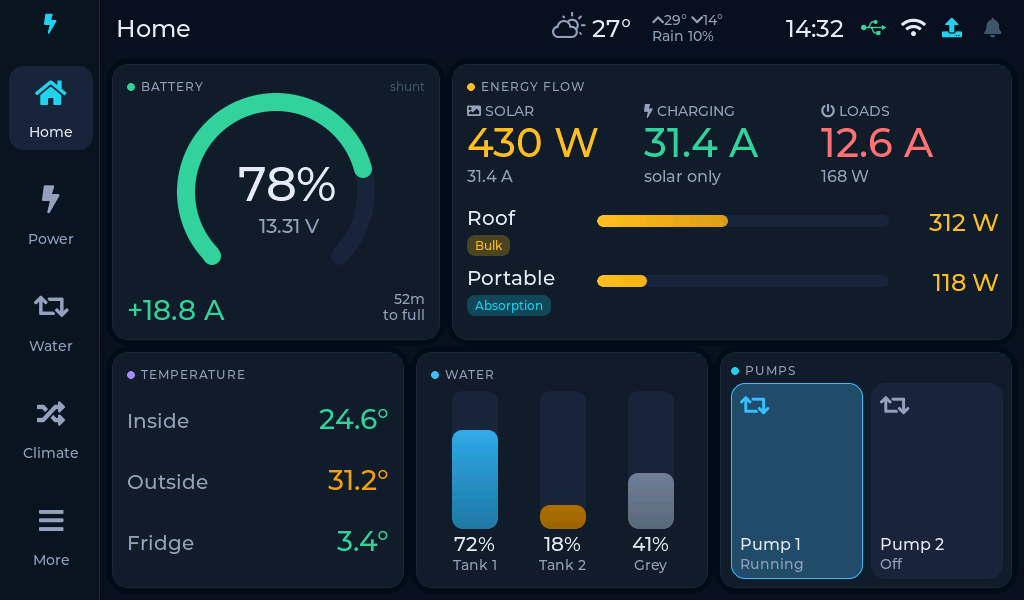
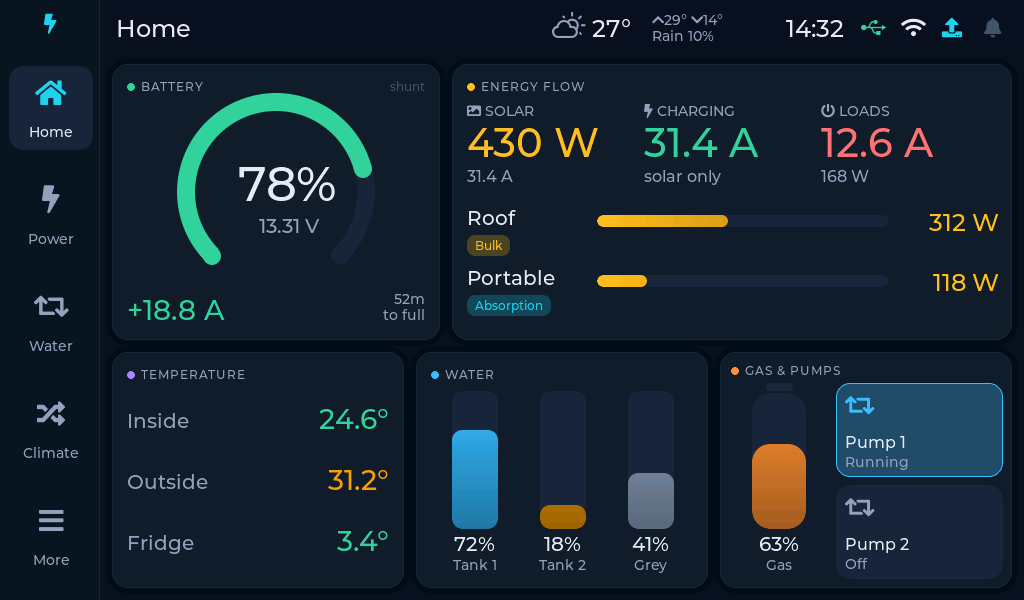
Add gas bottle gauge (BMPRO SmartSense) to Home; stack Pump 1/Pump 2
Home's third card becomes Gas & pumps: an LPG bottle gauge on the left and
the two pump tiles stacked at half height on the right. New cv::Gas in the
state (link key "gas"), a "gas" alert metric, demo/sim data at 63%, and the
same layout on the web dashboard. The hub's OdysseyLink decoder has a stub
for the SmartSense frame, so gas shows -- on real hardware until decoded.

Claude-Session: https://claude.ai/code/session_01PBSbX8v9d7dnHXswgJXYpi

Changed region(s): [[0.6875, 0.6, 1.0, 0.99]]

diff --git a/web/index.html b/web/index.html
@@ -17,7 +17,7 @@
 :root {
   --bg:#0b1220; --card:#131c2e; --tile:#1a2438; --border:#1e293b;
   --text:#e2e8f0; --muted:#94a3b8; --dim:#475569;
-  --solar:#fbbf24; --charge:#34d399; --load:#f87171; --water:#38bdf8;
+  --solar:#fbbf24; --charge:#34d399; --load:#f87171; --water:#38bdf8; --gas:#fb923c;
   --climate:#a78bfa; --accent:#22d3ee; --warn:#f59e0b; --alarm:#ef4444;
   --radius:16px;
 }
@@ -25,7 +25,7 @@
   :root:not([data-theme="dark"]) {
     --bg:#eef2f7; --card:#ffffff; --tile:#f1f5f9; --border:#dbe3ee;
     --text:#0f172a; --muted:#475569; --dim:#94a3b8;
-    --solar:#d97706; --charge:#059669; --load:#dc2626; --water:#0284c7;
+    --solar:#d97706; --charge:#059669; --load:#dc2626; --water:#0284c7; --gas:#ea580c;
     --climate:#7c3aed; --accent:#0891b2;
   }
 }
@@ -65,9 +65,12 @@ main { padding:12px 16px 40px; max-width:1200px; margin:0 auto; }
 .tanks { display:flex; gap:18px; justify-content:space-around; }
 .tank { text-align:center; }
 .tank .tb { width:44px; height:110px; border-radius:10px; background:var(--tile); position:relative; overflow:hidden; margin:0 auto 6px; }
+#gas .tb { border-radius:18px 18px 12px 12px; }
 .tank .tb i { position:absolute; left:0; right:0; bottom:0; background:var(--water); transition:height .6s; }
 .temps .t { display:flex; justify-content:space-between; align-items:baseline; padding:4px 0; }
 .ctrls { display:grid; grid-template-columns:1fr 1fr; gap:10px; }
+.gasrow { display:flex; gap:14px; align-items:stretch; } .gasrow .ctrls { flex:1; grid-template-columns:1fr; }
+.gasrow.wide .ctrls { grid-template-columns:1fr 1fr; }
 .tog { border:1px solid var(--border); background:var(--tile); color:var(--text); border-radius:14px;
   padding:12px; text-align:left; font:inherit; cursor:pointer; min-height:70px; }
 .tog b { display:block; font-weight:600; } .tog span { font-size:12px; color:var(--muted); }
@@ -161,9 +164,12 @@ pre { white-space:pre-wrap; font-size:12px; background:var(--tile); padding:10px
         <div class="cap">Water</div>
         <div id="tanks" class="tanks"></div>
       </div>
-      <div class="card span4">
-        <div class="cap">Controls</div>
-        <div class="ctrls" id="ctrls"></div>
+      <div class="card span4" style="--dot:var(--gas)">
+        <div class="cap" id="ctrlCap">Gas &amp; pumps</div>
+        <div class="gasrow" id="gasRow">
+          <div class="tank" id="gas"></div>
+          <div class="ctrls" id="ctrls"></div>
+        </div>
         <div class="row hidden" id="acRow" style="margin-top:10px">
           <select id="acSel" aria-label="Aircon preset"></select>
           <button class="btn" id="acGo">Send</button>
@@ -280,7 +286,7 @@ const METRICS = [
   ["load_a","Load current","A"],["charge_a","Charge current","A"],["solar_w","Solar total","W"],
   ["solar1_w","Solar 1","W"],["solar2_w","Solar 2","W"],["temp_in","Inside temp","°C"],
   ["temp_out","Outside temp","°C"],["temp_fridge","Fridge temp","°C"],["tank1","Tank 1","%"],
-  ["tank2","Tank 2","%"],["tank3","Tank 3","%"]];
+  ["tank2","Tank 2","%"],["tank3","Tank 3","%"],["gas","Gas bottle","%"]];
 const CS = {0:"Off",2:"Fault",3:"Bulk",4:"Absorption",5:"Float",7:"Equalise",245:"Starting",247:"Auto EQ",252:"Ext control"};
 const SEV = ["Info","Warning","Alarm"], SEVC = ["var(--accent)","var(--warn)","var(--alarm)"];
 
@@ -361,6 +367,13 @@ function render() {
     const c = !t.on ? "var(--dim)" : bad ? "var(--alarm)" : warn ? "var(--warn)" : i === 2 ? "var(--muted)" : "var(--water)";
     return `<div class="tank"><div class="tb"><i style="height:${t.on ? t.p : 0}%; background:${c}"></i></div>
       <b>${t.on ? Math.round(t.p) + "%" : "--"}</b><div class="muted small">${esc(META.tank[i])}</div></div>`; }).join("");
+
+  // Gas bottle (BMPRO SmartSense via the OdysseyLink)
+  const g = S.gas || { on:false, p:0 }, gc = !g.on ? "var(--dim)" : g.p < 10 ? "var(--alarm)" : g.p < 25 ? "var(--warn)" : "var(--gas)";
+  $("#gas").innerHTML = `<div class="tb"><i style="height:${g.on ? g.p : 0}%; background:${gc}"></i></div>
+    <b>${g.on ? Math.round(g.p) + "%" : "--"}</b><div class="muted small">Gas</div>`;
+  $("#gasRow").classList.toggle("wide", FEATURES.inverter || FEATURES.aircon);
+  $("#ctrlCap").textContent = FEATURES.inverter || FEATURES.aircon ? "Gas & controls" : "Gas & pumps";
 
   const rc = transport?.kind !== "cloud" || META.rc;
   const acName = S.ac.on && S.ac.pre >= 0 ? (META.acp[S.ac.pre] || "On") : "Off";
@@ -493,7 +506,7 @@ function demoTransport() {
   const st = { t:"state", ts: Math.floor(Date.now() / 1000), bat:{ on:true, src:1, v:13.31, a:18.8, soc:78, ttg:52, sa:31.4, ca:0, chg:31.4, load:12.6 },
     sol:[{ on:true, pv:-1, w:312, bv:13.31, ba:22.6, cs:3, err:0, yt:1.42, mx:498 }, { on:true, pv:-1, w:118, bv:13.3, ba:8.8, cs:4, err:0, yt:0.61, mx:205 }],
     tmp:[{ on:true, c:24.6, lo:16.2, hi:27.9 }, { on:true, c:31.2, lo:14.8, hi:33.4 }, { on:true, c:7.4, lo:2.1, hi:7.4 }],
-    tank:[{ on:true, p:72 }, { on:true, p:18 }, { on:true, p:41 }],
+    tank:[{ on:true, p:72 }, { on:true, p:18 }, { on:true, p:41 }], gas:{ on:true, p:63 },
     pump:[{ on:true, sn:true, lk:false, rt:94 }, { on:false, sn:false, lk:false, rt:0 }],
     inv:{ on:false, ac:false }, ac:{ on:true, pre:0 },
     alerts:[{ id:7, sev:2, ack:false, since: Math.floor(Date.now() / 1000) - 1500, msg:"Fridge warm: 7.4°C (> 6.0)" }],

diff --git a/firmware/display/src/ui/ui_home.cpp b/firmware/display/src/ui/ui_home.cpp
@@ -1,6 +1,6 @@
 // HOME - everything important on one screen.
 //  [ Battery ring  ] [ Energy flow: solar / charger / loads + per-MPPT  ]
-//  [ Temperatures  ] [ Water tanks      ] [ Pump1 Pump2 Inverter Aircon ]
+//  [ Temperatures  ] [ Water tanks      ] [ Gas bottle | Pump 1 / Pump 2 ]
 #include "../app.h"
 #include "ui.h"
 
@@ -12,6 +12,7 @@ static lv_obj_t *mpName[cv::NUM_SOLAR], *mpChip[cv::NUM_SOLAR], *mpBar[cv::NUM_S
 static lv_obj_t *tName[cv::NUM_TEMPS], *tVal[cv::NUM_TEMPS];
 static lv_obj_t *tkBar[cv::NUM_TANKS], *tkPct[cv::NUM_TANKS], *tkName[cv::NUM_TANKS];
 static lv_obj_t *tilePump[cv::NUM_PUMPS], *tileInv, *tileAc;
+static lv_obj_t *gasBar, *gasPct;
 static uint32_t seenMeta = UINT32_MAX;
 
 static void pumpCb(lv_event_t *e) { togglePump((int)(intptr_t)lv_event_get_user_data(e)); }
@@ -134,15 +135,44 @@ void buildHome(lv_obj_t *p) {
     lv_obj_set_pos(tkName[i], x + 1, 24 + tankBarH + (LARGE ? 28 : 22));
   }
 
-  // ---------------- quick controls: 2 tiles per row (pumps, then inverter /
-  // aircon when those features are switched on, see ui.h)
-  constexpr int nTiles = cv::NUM_PUMPS + HAS_INVERTER + HAS_AIRCON, rows = (nTiles + 1) / 2;
-  lv_obj_t *q = card(p, colX(2, 3), BOT_Y, bw, BOT_H, nTiles > cv::NUM_PUMPS ? "CONTROLS" : "PUMPS", col::ACCENT);
+  // ---------------- gas bottle + quick controls. Gas gauge (BMPRO SmartSense)
+  // on the left; the pump tiles stacked at half height on the right (plus
+  // inverter / aircon in a second column when those features are on, ui.h).
+  constexpr int nTiles = cv::NUM_PUMPS + HAS_INVERTER + HAS_AIRCON;
+  constexpr int tCols = nTiles > cv::NUM_PUMPS ? 2 : 1, tRows = (nTiles + tCols - 1) / tCols;
+  lv_obj_t *q = card(p, colX(2, 3), BOT_Y, bw, BOT_H, nTiles > cv::NUM_PUMPS ? "GAS & CONTROLS" : "GAS & PUMPS",
+                     col::GAS);
   lv_obj_set_style_pad_all(q, 10, 0);
-  constexpr int tg = 8, tw = (bw - 20 - tg) / 2, th = (BOT_H - 20 - 20 - (rows - 1) * tg) / rows;
+  constexpr int qw = bw - 20, qh = BOT_H - 20, tg = 8;
+  constexpr int gasW = (tCols == 1 ? qw * 36 / 100 : qw * 28 / 100);
+  constexpr int gasBarW = LARGE ? 54 : 44, gasBarH = qh - 20 - (LARGE ? 50 : 42);  // % and name below
+  // The bottle: a bar with a little valve collar on top.
+  lv_obj_t *collar = lv_obj_create(q);
+  lv_obj_remove_style_all(collar);
+  lv_obj_set_size(collar, gasBarW / 2, 8);
+  lv_obj_set_style_bg_opa(collar, LV_OPA_COVER, 0);
+  lv_obj_set_style_bg_color(collar, c(col::BORDER), 0);
+  lv_obj_set_style_radius(collar, 3, 0);
+  lv_obj_set_pos(collar, (gasW - gasBarW / 2) / 2, 20);
+  gasBar = vbar(q, gasBarW, gasBarH - 10, col::GAS);
+  lv_obj_set_style_radius(gasBar, gasBarW / 3, 0);
+  lv_obj_set_style_radius(gasBar, gasBarW / 3, LV_PART_INDICATOR);
+  lv_obj_set_pos(gasBar, (gasW - gasBarW) / 2, 30);
+  lv_obj_clear_flag(gasBar, LV_OBJ_FLAG_CLICKABLE);
+  gasPct = lbl(q, LARGE ? &lv_font_montserrat_20 : &lv_font_montserrat_16, col::TEXT, "--");
+  lv_obj_set_width(gasPct, gasW);
+  lv_obj_set_style_text_align(gasPct, LV_TEXT_ALIGN_CENTER, 0);
+  lv_obj_set_pos(gasPct, 0, 20 + gasBarH + 4);
+  lv_obj_t *gasName = lbl(q, LARGE ? &lv_font_montserrat_14 : &lv_font_montserrat_12, col::MUTED, "Gas");
+  lv_obj_set_width(gasName, gasW);
+  lv_obj_set_style_text_align(gasName, LV_TEXT_ALIGN_CENTER, 0);
+  lv_obj_set_pos(gasName, 0, 20 + gasBarH + (LARGE ? 28 : 22));
+
+  constexpr int tx0 = gasW + tg, tw = (qw - tx0 - (tCols - 1) * tg) / tCols;
+  constexpr int th = (qh - 20 - (tRows - 1) * tg) / tRows;
   int n = 0;
   auto place = [&](lv_obj_t *t) {
-    lv_obj_set_pos(t, (n % 2) * (tw + tg), 20 + (n / 2) * (th + tg));
+    lv_obj_set_pos(t, tx0 + (n / tRows) * (tw + tg), 20 + (n % tRows) * (th + tg));
     n++;
   };
   for (int i = 0; i < cv::NUM_PUMPS; i++) {
@@ -237,6 +267,18 @@ void updateHome() {
       lv_bar_set_value(tkBar[i], 0, LV_ANIM_OFF);
       setText(tkPct[i], "--");
     }
+  }
+
+  // gas bottle
+  if (s.gas.online) {
+    lv_bar_set_value(gasBar, (int)s.gas.pct, LV_ANIM_ON);
+    setBarColor(gasBar, gasColor(s.gas.pct));
+    setText(gasPct, "%d%%", (int)(s.gas.pct + 0.5f));
+    lv_obj_set_style_text_color(gasPct, c(col::TEXT), 0);
+  } else {
+    lv_bar_set_value(gasBar, 0, LV_ANIM_OFF);
+    setText(gasPct, "--");
+    lv_obj_set_style_text_color(gasPct, c(col::DIM), 0);
   }
 
   // controls

diff --git a/firmware/hub/src/Bmpro.cpp b/firmware/hub/src/Bmpro.cpp
@@ -32,7 +32,7 @@ volatile bool gDecodedAny = false;
 
 // Decoded data handed from the BLE task to loop(), with arrival times.
 BmproData gData;
-uint32_t gBatMs = 0, gChgMs = 0, gTankMs[cv::NUM_TANKS] = {}, gPumpMs[cv::NUM_PUMPS] = {};
+uint32_t gBatMs = 0, gChgMs = 0, gTankMs[cv::NUM_TANKS] = {}, gPumpMs[cv::NUM_PUMPS] = {}, gGasMs = 0;
 
 struct WriteReq {
   char uuid[40];
@@ -123,6 +123,11 @@ void applyDecoded(const BmproData &in) {
       gData.tankPct[i] = in.tankPct[i];
       gTankMs[i] = now;
     }
+  if (in.gasValid) {
+    gData.gasValid = true;
+    gData.gasPct = in.gasPct;
+    gGasMs = now;
+  }
   for (int i = 0; i < cv::NUM_PUMPS; i++)
     if (in.pumpValid[i]) {
       gData.pumpValid[i] = true;
@@ -259,6 +264,9 @@ void Bmpro::loop(cv::State &s, bool useBattery, bool useTanks, bool usePumps) {
       s.tank[i].online = gData.tankValid[i] && now - gTankMs[i] < STALE_MS;
       if (s.tank[i].online) s.tank[i].pct = gData.tankPct[i];
     }
+  // Gas bottle (SmartSense): goes online once decode() learns its frame.
+  s.gas.online = gData.gasValid && now - gGasMs < STALE_MS;
+  if (s.gas.online) s.gas.pct = gData.gasPct;
   if (usePumps)
     for (int i = 0; i < cv::NUM_PUMPS; i++) {
       bool fresh = gData.pumpValid[i] && now - gPumpMs[i] < STALE_MS;
@@ -328,6 +336,9 @@ String Bmpro::devices() const {
 //     out.pumpValid[0] = out.pumpValid[1] = true;
 //     out.pumpOn[0] = data[10] & 0x01;  out.pumpOn[1] = data[10] & 0x02;
 //     return true;
+//   }
+//   // SmartSense gas bottle level (relayed by the OdysseyLink), e.g.
+//   if (... SmartSense frame ...) { out.gasValid = true; out.gasPct = data[n]; return true;
 //   }
 //
 // encodePump(): the bytes the Odyssey app writes to switch a pump (from an

diff --git a/firmware/lib/CaravanCommon/src/CaravanModel.cpp b/firmware/lib/CaravanCommon/src/CaravanModel.cpp
@@ -22,6 +22,7 @@ static const MetricInfo kMetrics[M_COUNT] = {
     {"tank3", "Tank 3", "%", 5.0f},
     {"wx_gust", "Forecast gusts", "km/h", 5.0f},
     {"wx_rain", "Forecast rain chance", "%", 10.0f},
+    {"gas", "Gas bottle", "%", 5.0f},
 };
 
 const MetricInfo &metricInfo(Metric m) { return kMetrics[m < M_COUNT ? m : 0]; }
@@ -57,6 +58,7 @@ bool metricValue(const State &s, Metric m, float &out) {
     // Forecast metrics: only while the forecast is reasonably fresh (6 h).
     case M_WX_GUST: out = s.wx.day[0].gustMax; return s.wx.valid && s.ts && s.ts - s.wx.updated < 6 * 3600;
     case M_WX_RAIN: out = s.wx.day[0].rainProb; return s.wx.valid && s.ts && s.ts - s.wx.updated < 6 * 3600;
+    case M_GAS: out = s.gas.pct; return s.gas.online;
     default: return false;
   }
 }
@@ -215,6 +217,10 @@ void stateToJson(const State &s, JsonObject o) {
     j["p"] = r1(x.pct);
   }
 
+  JsonObject gas = o["gas"].to<JsonObject>();
+  gas["on"] = s.gas.online;
+  gas["p"] = r1(s.gas.pct);
+
   JsonArray pm = o["pump"].to<JsonArray>();
   for (auto &x : s.pump) {
     JsonObject j = pm.add<JsonObject>();
@@ -301,6 +307,9 @@ void stateFromJson(State &s, JsonObjectConst o) {
     s.tank[i].online = tk[i]["on"] | false;
     s.tank[i].pct = tk[i]["p"] | 0.0f;
   }
+
+  s.gas.online = o["gas"]["on"] | false;
+  s.gas.pct = o["gas"]["p"] | 0.0f;
 
   JsonArrayConst pm = o["pump"];
   for (int i = 0; i < NUM_PUMPS; i++) {

diff --git a/firmware/display/src/ui/ui.h b/firmware/display/src/ui/ui.h
@@ -62,7 +62,7 @@ constexpr uint32_t BG = 0x0B1220, RAIL = 0x0E1626, CARD = 0x131C2E, BORDER = 0x1
 constexpr uint32_t TEXT = 0xE2E8F0, MUTED = 0x94A3B8, DIM = 0x475569;
 constexpr uint32_t SOLAR = 0xFBBF24, CHARGE = 0x34D399, LOAD = 0xF87171, WATER = 0x38BDF8;
 constexpr uint32_t CLIMATE = 0xA78BFA, ACCENT = 0x22D3EE, WARN = 0xF59E0B, ALARM = 0xEF4444;
-constexpr uint32_t OK = 0x22C55E, TILE = 0x1A2438;
+constexpr uint32_t OK = 0x22C55E, TILE = 0x1A2438, GAS = 0xFB923C;
 }  // namespace col
 
 // ---------------------------------------------------------------- helpers (ui_common.cpp)
@@ -83,6 +83,7 @@ void confirm(const char *title, const char *msg, void (*onYes)(void *), void *ud
 uint32_t tempColor(int role, float c);
 uint32_t socColor(float soc);
 uint32_t tankColor(int i, float pct);
+uint32_t gasColor(float pct);
 void fmtDuration(char *buf, size_t n, int32_t minutes);
 
 // ---------------------------------------------------------------- pages

diff --git a/firmware/lib/CaravanCommon/src/CaravanModel.h b/firmware/lib/CaravanCommon/src/CaravanModel.h
@@ -62,6 +62,13 @@ struct Tank {
   float pct = 0;
 };
 
+// LPG bottle level from a BMPRO SmartSense gas sensor (ultrasonic, under the
+// bottle), relayed by the OdysseyLink. Decoding is still a stub on the hub.
+struct Gas {
+  bool online = false;
+  float pct = 0;
+};
+
 struct Pump {
   bool on = false;       // commanded / believed state
   bool sensed = false;   // voltage seen on pump output (if sense input fitted)
@@ -107,6 +114,7 @@ struct State {
   Battery bat;
   Temp temp[NUM_TEMPS];
   Tank tank[NUM_TANKS];
+  Gas gas;
   Pump pump[NUM_PUMPS];
   Inverter inv;
   Aircon ac;
@@ -131,6 +139,7 @@ enum Metric : uint8_t {
   M_TEMP_IN, M_TEMP_OUT, M_TEMP_FRIDGE,
   M_TANK1, M_TANK2, M_TANK3,
   M_WX_GUST, M_WX_RAIN,   // today's forecast max wind gust (km/h), rain chance (%)
+  M_GAS,  // appended: rules refer to metrics by key, but keep the order stable
   M_COUNT
 };
 

diff --git a/firmware/display/src/ui/ui_common.cpp b/firmware/display/src/ui/ui_common.cpp
@@ -196,6 +196,8 @@ uint32_t tankColor(int i, float pct) {
   return pct < 15 ? col::ALARM : pct < 30 ? col::WARN : col::WATER;
 }
 
+uint32_t gasColor(float pct) { return pct < 10 ? col::ALARM : pct < 25 ? col::WARN : col::GAS; }
+
 void fmtDuration(char *buf, size_t n, int32_t m) {
   if (m < 0) snprintf(buf, n, "--");
   else if (m >= 60 * 99) snprintf(buf, n, "99h+");

diff --git a/firmware/hub/src/Bmpro.h b/firmware/hub/src/Bmpro.h
@@ -29,6 +29,8 @@ struct BmproData {
   float chargerA = 0;
   bool tankValid[cv::NUM_TANKS] = {};
   float tankPct[cv::NUM_TANKS] = {};
+  bool gasValid = false;  // SmartSense LPG level (frame not decoded yet: stub)
+  float gasPct = 0;
   bool pumpValid[cv::NUM_PUMPS] = {};
   bool pumpOn[cv::NUM_PUMPS] = {};
 };

diff --git a/tests/sim/sim_main.cpp b/tests/sim/sim_main.cpp
@@ -88,6 +88,7 @@ static void demoData() {
   s.tank[0] = {true, 72};
   s.tank[1] = {true, 18};
   s.tank[2] = {true, 41};
+  s.gas = {true, 63};
   s.pump[0].on = true;
   s.pump[0].sensed = true;
   s.pump[0].runSec = 94;

diff --git a/firmware/display/src/demo.cpp b/firmware/display/src/demo.cpp
@@ -65,6 +65,8 @@ void begin() {
   s.tank[0].pct = 72;
   s.tank[1].pct = 18;
   s.tank[2].pct = 41;
+  s.gas.online = true;
+  s.gas.pct = 63;
   s.pump[0].on = true;
   s.pump[0].sensed = true;
   s.pump[0].runSec = 94;
